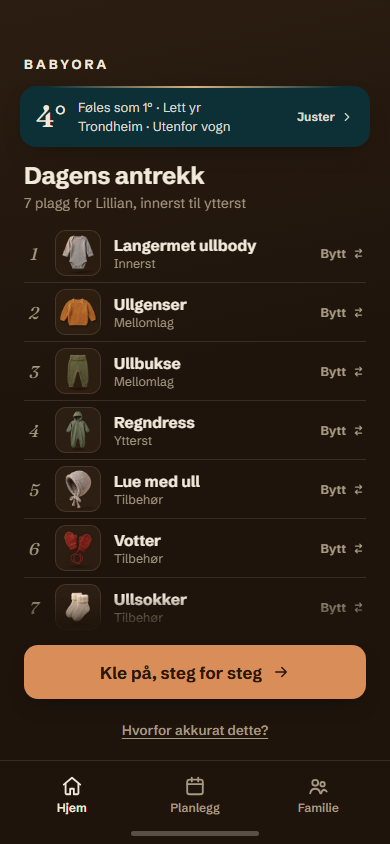
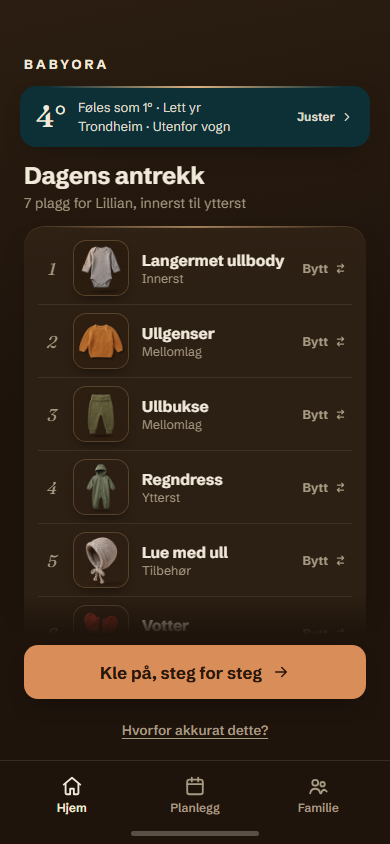
feat(design): depth doctrine (raised-surface lists, vitrine thumbs, light logic) + apply to result screen

diff --git a/docs/mocks/monter/hjem-result.html b/docs/mocks/monter/hjem-result.html
@@ -71,10 +71,27 @@
   h1 { font-size: 24px; font-weight: 700; letter-spacing: -0.012em; }
   .sub { font-size: 14px; color: var(--dw-ink-low); margin-top: 4px; }
 
-  .rows { margin-top: 12px; display: flex; flex-direction: column; }
+  /* Dybdedoktrinen: HELE listen ligger på én hevet resultatflate (nivå 2),
+     med kantlys på toppkanten og tintet skygge — aldri rader rett på canvas. */
+  .rows {
+    position: relative;
+    margin-top: 14px;
+    display: flex; flex-direction: column;
+    background: linear-gradient(178deg, #33241674 0%, var(--dw-raised) 14%);
+    background-color: var(--dw-raised);
+    border-radius: 20px;
+    padding: 6px 14px;
+    box-shadow: 0 1px 0 rgba(242, 192, 138, 0.14) inset, 0 16px 34px -18px rgba(0, 0, 0, 0.6);
+  }
+  .rows::before {
+    content: ""; position: absolute; top: 0; left: 8%; right: 8%; height: 1.5px;
+    border-radius: 2px;
+    background: linear-gradient(90deg, transparent, var(--dw-edge-light), transparent);
+    opacity: 0.55;
+  }
   .row {
     display: flex; align-items: center; gap: 13px;
-    padding: 6px 0; min-height: 57px;
+    padding: 8px 4px; min-height: 62px;
     text-decoration: none; color: inherit;
     border: 0; background: none; font-family: inherit; text-align: left; width: 100%;
     cursor: pointer;
@@ -82,7 +99,7 @@
     transform: translateY(10px);
     animation: row-in 0.42s cubic-bezier(0.16, 1, 0.3, 1) forwards;
   }
-  .row + .row { border-top: 1px solid var(--dw-hairline); }
+  .row + .row { border-top: 1px solid rgba(241, 233, 218, 0.09); }
   .row:active { background: rgba(241, 233, 218, 0.05); transform: scale(0.985); transition: transform 0.1s ease-out, background 0.1s ease-out; }
   /* Innslags-koreografien kjører KUN ved fersk beregning (.is-fresh settes av
      scan-tilstandsmaskinen); cachede åpninger rendrer radene direkte. */
@@ -107,10 +124,13 @@
     min-width: 18px; text-align: center; flex: none;
     font-variant-numeric: lining-nums tabular-nums;
   }
+  /* Monter-behandling på plaggbildet: lysere vitrine-flate bak plagget,
+     1px varm topplyskant, myk løfteskygge — gjenstand, ikke ikon. */
   .thumb {
-    width: 46px; height: 46px; border-radius: 11px; flex: none;
-    object-fit: cover; background: var(--dw-raised);
-    border: 1px solid var(--dw-hairline);
+    width: 56px; height: 56px; border-radius: 13px; flex: none;
+    object-fit: cover; background: #3A2A1A;
+    border: 1px solid rgba(242, 192, 138, 0.16);
+    box-shadow: 0 1px 0 rgba(242, 192, 138, 0.22) inset, 0 6px 12px -6px rgba(0, 0, 0, 0.55);
   }
   .row-text { flex: 1; min-width: 0; }
   .g-name { font-size: 15.5px; font-weight: 650; display: block; }

diff --git a/DESIGN.md b/DESIGN.md
@@ -84,3 +84,15 @@ Canonical file: `src/styles/design-tokens-v2.css` (new `--dw-*` vocabulary). New
 - Weather nuances (panel only): clear #155054, cloudy #113B3E, rain #0D3037, snow #2C4A50, night #092326.
 - Typography: Schibsted Grotesk for all UI; tabular mono for data rows; Fraunces ONLY on the hero temperature (the single brand moment); fixed rem scale ratio 1.2 (13/16/19/23/28 + hero 76).
 - Contrast: all 22 pairs computed and passing (weakest 5.2:1 CTA-pressed; primary text 7.5-15:1 across all surfaces incl. all five weather nuances). Verification script pattern: WCAG 2.1 relative luminance.
+
+## Depth doctrine (added 2026-07-31 after the flat-list finding)
+
+Component-level rules that prevent flatness in the dark-warm world. These are system rules, not per-screen choices:
+
+1. **Content never sits directly on canvas.** Recommendation/reading content lives on ONE raised espresso surface (level 2, `--dw-raised`) per screen, with hairlines INSIDE it. Hairline-rows directly on canvas read flat and are banned.
+2. **Every raised material carries light logic:** a 1px warm inner top-light (`rgba(242,192,138,~.15)` inset) + the edge-light gradient on its top edge (opacity ~0.5 for level 2, 0.9-1.0 for the panel) + a tinted drop shadow. No light logic = no material = flat.
+3. **Asset vitrine treatment:** garment/weather imagery sits in a thumb frame slightly LIGHTER than its surface (#3A2A1A on raised), with warm 1px top-light border and a small lift shadow, so assets read as lit objects, not icons.
+4. **Scroll is communicated with a bottom fade mask** (mask-image to transparent over the last ~8%), and a partially visible row is a feature: it is the scroll affordance.
+5. **Breathing beats cramming:** rows are min 62px; if content exceeds the surface, it scrolls behind the fade. Never compress rows below 57px to force-fit.
+
+Status of the design system: tokens v2 (colors, depth ramp, type, radii, edge light) and these doctrine rules live here; the full component library (specs + states matrix for row, strip, toggle, CTA, tabs) is extracted from the validated mock screens during implementation package P4, into reusable components consuming only `--dw-*` tokens.
